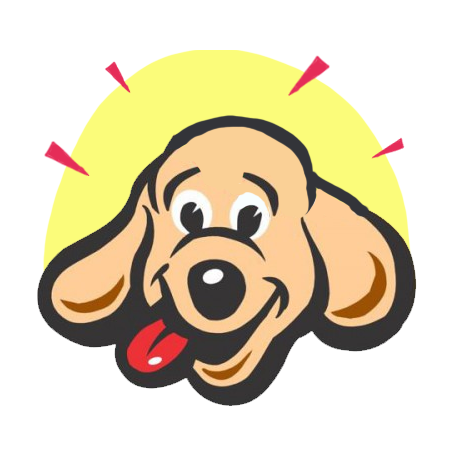
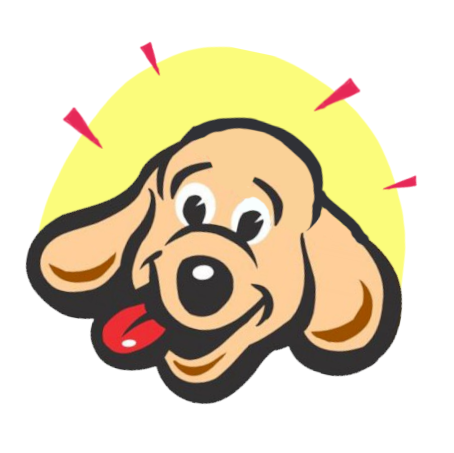
Introducing font for menu items, using 3D bone, tilting puppy image

diff --git a/docs/css/items.css b/docs/css/items.css
@@ -1,91 +1,96 @@
+@font-face {
+	font-family: "Informal011";
+	src: url("informal011bt-roman.otf") format("opentype");
+}
+
 .menuItem {
-  display: flex;
-  justify-content: center;
-  align-items: center;
-  width: 100%;
-  height: 150px;
-  margin: 40px 0;
-  background-repeat: no-repeat;
-  background-position: center;
-  background-size: contain;
-  font-family: sans-serif;
-  font-size: 50px;
-  color: red;
-  text-shadow: 0 0 10px blue;
+	display: flex;
+	justify-content: center;
+	align-items: center;
+	width: 100%;
+	height: 150px;
+	margin: 40px 0;
+	background-repeat: no-repeat;
+	background-position: center;
+	background-size: contain;
+	font-family: Informal011, sans-serif;
+	font-size: 3rem;
+	color: #ec0000;
+	text-shadow: 0 0 10px #030355;
 }
 
 #bio {
-  background-image: url("../images/bio-left.png");
+	background-image: url("../images/bone3D.png");
 }
 
 #treats {
-  background-image: url("../images/treats-left.png");
+	background-image: url("../images/bone3D.png");
 }
 
 #walks {
-  background-image: url("../images/walks-right.png");
+	background-image: url("../images/bone3D-flipped.png");
 }
 
 #puppy1 {
-  background-image: url("../images/puppy.png");
+	background-image: url("../images/puppy.png");
 }
 
 #puppy2 {
-  background-image: url("../images/puppyFlipped.png");
+	background-image: url("../images/puppyFlipped.png");
 }
 
 #puppy3 {
-  background-image: url("../images/puppy.png");
+	background-image: url("../images/puppy.png");
 }
 
 
 .puppy {
-  width: 200px;
-  height: 200px;
-  margin: 40px;
-  background-repeat: no-repeat;
-  background-position: center;
-  background-size: cover;
+	width: 200px;
+	height: 200px;
+	margin: 40px;
+	background-repeat: no-repeat;
+	background-position: center;
+	background-size: cover;
 }
 
 #foofie {
-  display: flex;
-  justify-content: center;
-  align-items: center;
-  width: 100%;
-  height: 25%;
-  font-size: 100px;
-  font-family: sans-serif;
-  color: gold;
+	display: flex;
+	justify-content: center;
+	align-items: center;
+	width: 100%;
+	height: 25%;
+	font-size: 100px;
+	font-family: sans-serif;
+	color: gold;
 }
 
 #f1 {
-  transform: rotate(-25deg);
+	transform: rotate(-25deg);
 }
 
 #o1 {
-  transform: rotate(-15deg);
+	transform: rotate(-15deg);
 }
 
 #o2 {
-  transform: rotate(-5deg);
+	transform: rotate(-5deg);
 }
 
 #f2 {
-  transform: rotate(5deg);
+	transform: rotate(5deg);
 }
 
 #i {
-  transform: rotate(15deg);
+	transform: rotate(15deg);
 }
 
 #e {
-  transform: rotate(25deg);
+	transform: rotate(25deg);
 }
 
 #dog {
-  background: url("../images/foofie.png") no-repeat center;
-  background-size: contain;
-  width: 100%;
-  height: 75%;
+	background: url("../images/foofie.png") no-repeat center;
+	background-size: contain;
+	width: 100%;
+	height: 75%;
 }

diff --git a/docs/js/index.js b/docs/js/index.js
@@ -8,22 +8,22 @@ window.onload = function () {
 	[
 		{
 			imageId: "bio",
-			image: "bio-left.png",
-			imageFlipped: "bio-right.png"
+			image: "bone3D-flipped.png",
+			imageFlipped: "bone3D.png"
 		},
 		{
 			imageId: "puppy1",
-			image: "puppyFlipped.png",
+			image: "puppy-flipped.png",
 			imageFlipped: "puppy.png"
 		},
 		{
 			imageId: "puppy2",
 			image: "puppy.png",
-			imageFlipped: "puppyFlipped.png"
+			imageFlipped: "puppy-flipped.png"
 		},
 		{
 			imageId: "puppy3",
-			image: "puppyFlipped.png",
+			image: "puppy-flipped.png",
 			imageFlipped: "puppy.png"
 		}
 	].forEach(item => {
@@ -34,13 +34,13 @@ window.onload = function () {
 		[
 			{
 				imageId: "treats",
-				image: "treats-left.png",
-				imageFlipped: "treats-right.png"
+				image: "bone3D-flipped.png",
+				imageFlipped: "bone3D.png"
 			},
 			{
 				imageId: "walks",
-				image: "walks-right.png",
-				imageFlipped: "walks-left.png"
+				image: "bone3D.png",
+				imageFlipped: "bone3D-flipped.png"
 			},
 		].forEach(data => {
 			flipBetween(data)

diff --git a/docs/index.html b/docs/index.html
@@ -18,9 +18,9 @@
 <div id="borderLeft" class="border center"></div>
 <div id="centerSquare" class="center">
 	<div id="menu" class="centerSquareItem">
-		<div class="menuItem" id="bio"></div>
-		<div class="menuItem" id="treats"></div>
-		<div class="menuItem" id="walks"></div>
+		<div class="menuItem" id="bio">BIO</div>
+		<div class="menuItem" id="treats">TREATS</div>
+		<div class="menuItem" id="walks">WALKS</div>
 	</div>
 	<div id="focus" class="centerSquareItem">
 		<div id="foofie">
